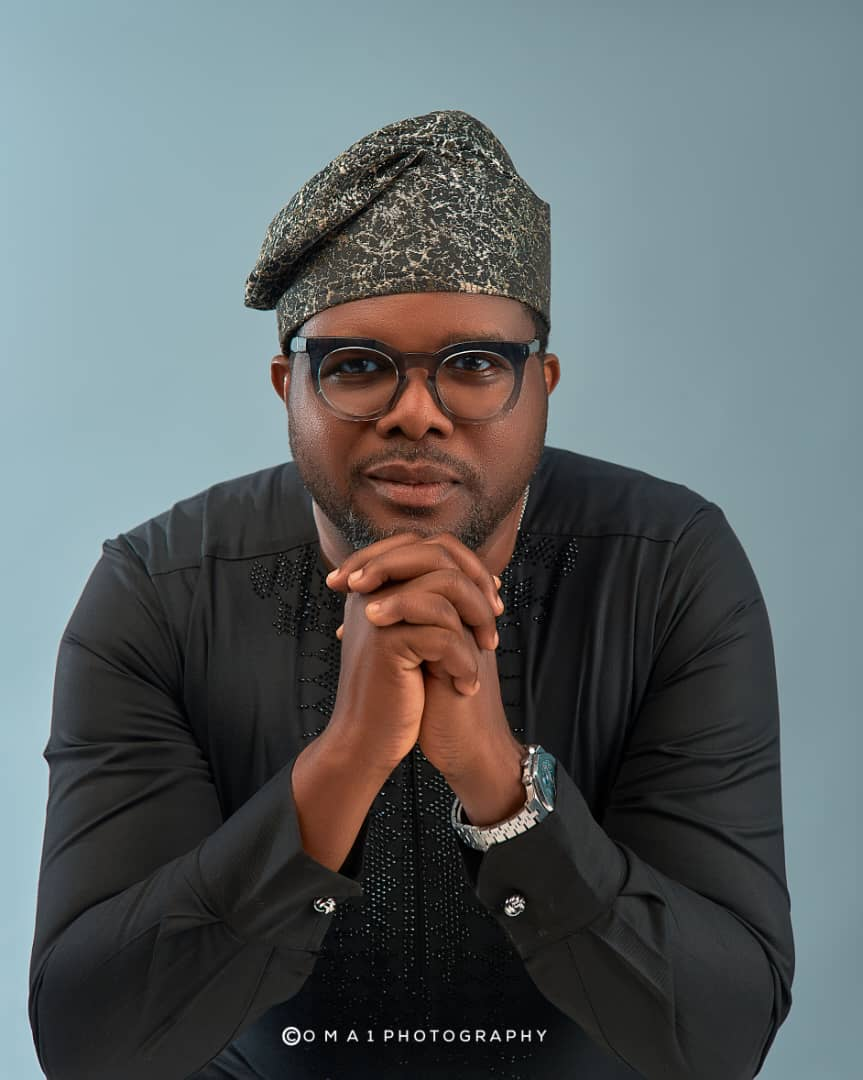
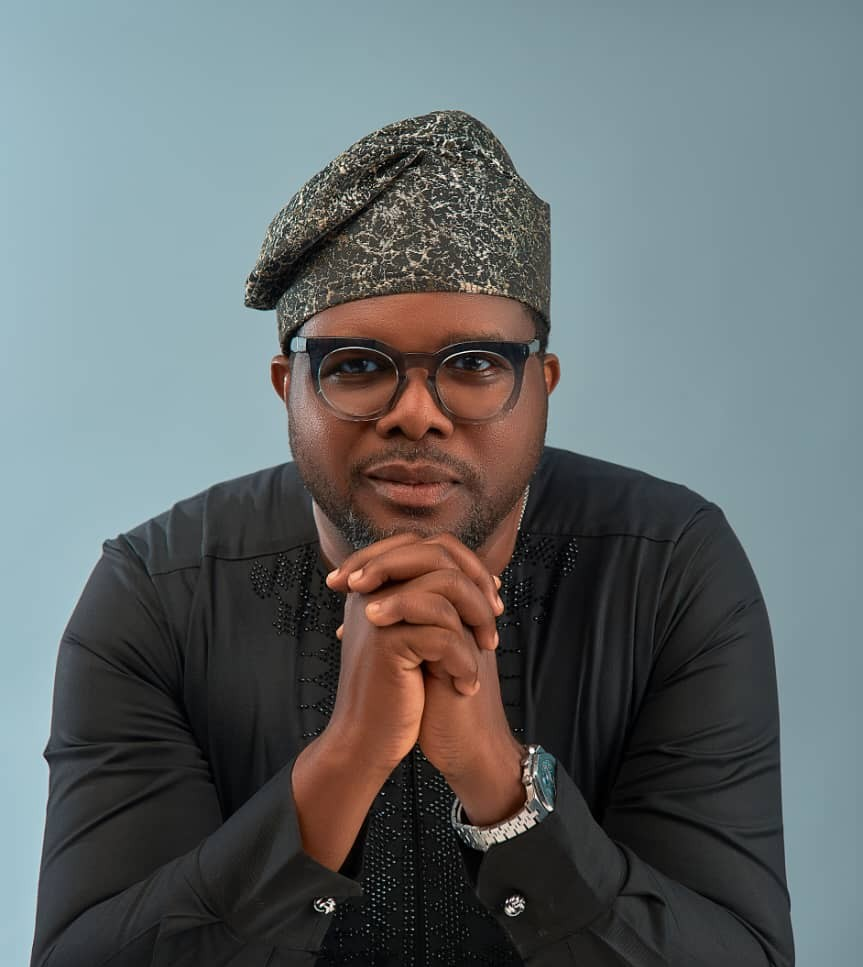
fix: image reshapes and clean ups

diff --git a/app/components/Gallery.tsx b/app/components/Gallery.tsx
@@ -30,14 +30,15 @@ type Event = {
    Data
 ========================= */
 const events: Event[] = [
-  {
-    id: "upcoming-1",
-    name: "Investors Connect",
-    date: "March 2026",
-    description: "",
-    location: "London, UK",
-    images: ["/dr-lanre/investors-connect.jpeg"],
-  },
+  // No upcoming events right now — uncomment when scheduling returns.
+  // {
+  //   id: "upcoming-1",
+  //   name: "Investors Connect",
+  //   date: "March 2026",
+  //   description: "",
+  //   location: "London, UK",
+  //   images: ["/dr-lanre/investors-connect.jpeg"],
+  // },
   // {
   //   id: "upcoming-2",
   //   name: "Executive Coaching Masterclass",
@@ -87,9 +88,9 @@ const events: Event[] = [
    Component
 ========================= */
 export default function Gallery() {
-  const [activeTab, setActiveTab] = useState<
-    "all" | "upcoming" | "past" | "gallery"
-  >("all");
+  const [activeTab, setActiveTab] = useState<"all" | "past" | "gallery">(
+    "all",
+  );
   const isMobile = useIsMobile();
   const [selectedImage, setSelectedImage] = useState<{
     src: string;
@@ -98,7 +99,7 @@ export default function Gallery() {
   } | null>(null);
 
   const today = new Date().toISOString().split("T")[0];
-  const upcomingEvents = events.filter((e) => e.date >= today);
+  // const upcomingEvents = events.filter((e) => e.date >= today);
   const pastEvents = events.filter((e) => e.date < today);
 
   const openLightbox = (src: string, allImages: string[]) => {
@@ -133,7 +134,7 @@ export default function Gallery() {
 
   const tabs = [
     { id: "all", label: "All" },
-    { id: "upcoming", label: "Upcoming Events" },
+    // { id: "upcoming", label: "Upcoming Events" },
     { id: "past", label: "Past Events" },
     { id: "gallery", label: "Photo Gallery" },
   ];
@@ -148,9 +149,7 @@ export default function Gallery() {
               <button
                 key={tab.id}
                 onClick={() =>
-                  setActiveTab(
-                    tab.id as "all" | "upcoming" | "past" | "gallery",
-                  )
+                  setActiveTab(tab.id as "all" | "past" | "gallery")
                 }
                 className={`
                   relative px-6 py-2.5 rounded-full text-sm font-medium transition-all duration-300
@@ -189,8 +188,9 @@ export default function Gallery() {
             >
               <div className="space-y-24">
                 {/* =========================
-                    Upcoming Events
+                    Upcoming Events (disabled — no scheduled events)
                 ========================= */}
+                {/*
                 {(activeTab === "all" || activeTab === "upcoming") &&
                   upcomingEvents.length > 0 && (
                     <div>
@@ -253,6 +253,7 @@ export default function Gallery() {
                       </div>
                     </div>
                   )}
+                */}
 
                 {/* =========================
                     Past Events (posters) + Photo gallery
@@ -406,16 +407,17 @@ export default function Gallery() {
 /* =========================
    Section headers
 ========================= */
-function SectionHeader({ title, accent }: { title: string; accent: string }) {
-  return (
-    <div className="mb-10">
-      <h2 className="font-changa-one text-3xl md:text-4xl text-white mb-3">
-        {title}
-      </h2>
-      <div className={`h-1 w-28 rounded-full bg-gradient-to-r ${accent}`} />
-    </div>
-  );
-}
+// Used when Upcoming Events block is re-enabled.
+// function SectionHeader({ title, accent }: { title: string; accent: string }) {
+//   return (
+//     <div className="mb-10">
+//       <h2 className="font-changa-one text-3xl md:text-4xl text-white mb-3">
+//         {title}
+//       </h2>
+//       <div className={`h-1 w-28 rounded-full bg-gradient-to-r ${accent}`} />
+//     </div>
+//   );
+// }
 
 function PastEventsPostersHeader() {
   return (

diff --git a/app/data/drLanreGalleryImages.ts b/app/data/drLanreGalleryImages.ts
@@ -10,33 +10,21 @@ export const DR_LANRE_GALLERY_IMAGES: string[] = [
   "/dr-lanre/hero-4.jpeg",
   "/dr-lanre/lagos-business-school.jpg",
   "/dr-lanre/main-image.jpeg",
-  "/dr-lanre/WhatsApp Image 2026-01-17 at 20.24.08 (1).jpeg",
-  "/dr-lanre/WhatsApp Image 2026-01-17 at 20.24.08 (3).jpeg",
-  "/dr-lanre/WhatsApp Image 2026-01-17 at 20.24.08 (4).jpeg",
-  "/dr-lanre/WhatsApp Image 2026-01-17 at 20.24.08.jpeg",
-  "/dr-lanre/WhatsApp Image 2026-01-17 at 20.24.09 (2).jpeg",
-  "/dr-lanre/WhatsApp Image 2026-01-17 at 20.24.10.jpeg",
-  "/dr-lanre/WhatsApp Image 2026-01-17 at 20.24.11 (1).jpeg",
-  "/dr-lanre/WhatsApp Image 2026-01-17 at 20.24.11.jpeg",
-  "/dr-lanre/WhatsApp Image 2026-01-17 at 20.24.12 (1).jpeg",
-  "/dr-lanre/WhatsApp Image 2026-01-17 at 20.24.12 (2).jpeg",
-  "/dr-lanre/WhatsApp Image 2026-01-17 at 20.24.12 (3).jpeg",
-  "/dr-lanre/WhatsApp Image 2026-01-17 at 20.24.12.jpeg",
-  "/dr-lanre/WhatsApp Image 2026-01-17 at 20.24.13 (1).jpeg",
-  "/dr-lanre/WhatsApp Image 2026-01-17 at 20.24.13 (2).jpeg",
-  "/dr-lanre/WhatsApp Image 2026-01-17 at 20.24.14 (1).jpeg",
-  "/dr-lanre/WhatsApp Image 2026-01-17 at 20.24.14 (2).jpeg",
-  "/dr-lanre/WhatsApp Image 2026-01-17 at 20.24.14.jpeg",
-  "/dr-lanre/WhatsApp Image 2026-01-17 at 20.24.15 (1).jpeg",
-  "/dr-lanre/WhatsApp Image 2026-01-17 at 20.24.15 (2).jpeg",
-  "/dr-lanre/WhatsApp Image 2026-01-17 at 20.24.15 (3).jpeg",
-  "/dr-lanre/WhatsApp Image 2026-01-17 at 20.24.15.jpeg",
-  "/dr-lanre/WhatsApp Image 2026-01-17 at 20.24.16.jpeg",
-  "/dr-lanre/WhatsApp Image 2026-03-10 at 9.35.04 AM.jpeg",
-  "/dr-lanre/WhatsApp Image 2026-03-10 at 9.35.05 AM (1).jpeg",
-  "/dr-lanre/WhatsApp Image 2026-03-10 at 9.35.05 AM (2).jpeg",
-  "/dr-lanre/WhatsApp Image 2026-03-10 at 9.35.05 AM (3).jpeg",
-  "/dr-lanre/WhatsApp Image 2026-03-10 at 9.35.05 AM.jpeg",
-  "/dr-lanre/WhatsApp Image 2026-03-10 at 9.35.06 AM (1).jpeg",
-  "/dr-lanre/WhatsApp Image 2026-03-10 at 9.35.06 AM.jpeg",
+  "/dr-lanre/dl-1.jpeg",
+  "/dr-lanre/dl-2.jpeg",
+  "/dr-lanre/dl-3.jpeg",
+  "/dr-lanre/dl-4.jpeg",
+  "/dr-lanre/dl-5.jpeg",
+  "/dr-lanre/dl-6.jpeg",
+  "/dr-lanre/dl-7.jpeg",
+  "/dr-lanre/dl-8.jpeg",
+  "/dr-lanre/dl-9.jpeg",
+  "/dr-lanre/dl-10.jpeg",
+  "/dr-lanre/dl-11.jpeg",
+  "/dr-lanre/dl-12.jpeg",
+  "/dr-lanre/dl-13.jpeg",
+  "/dr-lanre/dl-14.jpeg",
+  "/dr-lanre/dl-15.jpeg",
+  "/dr-lanre/dl-16.jpeg",
+  "/dr-lanre/dl-17.jpeg",
 ];

diff --git a/app/components/PhotoGallery.tsx b/app/components/PhotoGallery.tsx
@@ -36,10 +36,7 @@ export default function PhotoGallery({
               <h2 className="font-changa-one text-2xl md:text-3xl text-white">
                 Moments & candids
               </h2>
-              <p className="text-slate-400 text-sm mt-1 max-w-md">
-                Photos from <span className="text-slate-300">public/dr-lanre</span>—informal
-                shots from sessions and events (not the poster grid).
-              </p>
+             
             </div>
           </div>
         </div>

diff --git a/app/components/Collaborations.tsx b/app/components/Collaborations.tsx
@@ -19,6 +19,8 @@ const logos = [
   { name: "YouWin", src: "/logos/youwin.png" },
   { name: "Zenith Medica", src: "/logos/zenith-medica.png" },
   { name: "Enterprise Development Center", src: "/logos/edc-1.webp" },
+  { name: "Nigerian Federation", src: "/logos/niger.png" },
+  { name: "Hewlett packard", src: "/logos/hp.png" },
 ];
 
 export default function Collaborations() {

diff --git a/app/components/Hero.tsx b/app/components/Hero.tsx
@@ -20,7 +20,7 @@ const roles = [
     ctaLink: "#booking",
   },
   {
-    title: "Executive Speaker",
+    title: "Leadership Speaker",
     image: "/dr-lanre/hero-3.jpeg",
     ctaText: "Book a Speaking",
     ctaLink: "#booking",
